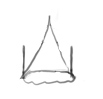
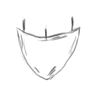
Heroes have life and a recharchable shield. Some minor hitbox issues. Meh.

Changed region(s): [[0.1456, 0.1515, 0.7864, 0.8788]]

diff --git a/README.md b/README.md
@@ -1,1 +1,30 @@
 Entry for Ludum Dare 33!
+
+# TODO
+
+* Calibrate weapons
+* GUI for weapons
+* New weapon graphics
+* New bullet graphics
+* Some sound
+* Instruction
+* End of the game
+
+## Bouns
+
+* Multiple heroes
+* Powerups
+
+# Weapons
+1. Eye lazer
+2. Left whirler
+3. Right whirler
+4. Bouncer
+5. Rockets
+
+# Powerups
+1. Bullet masher :w
+
+# Status
+1. Life
+
